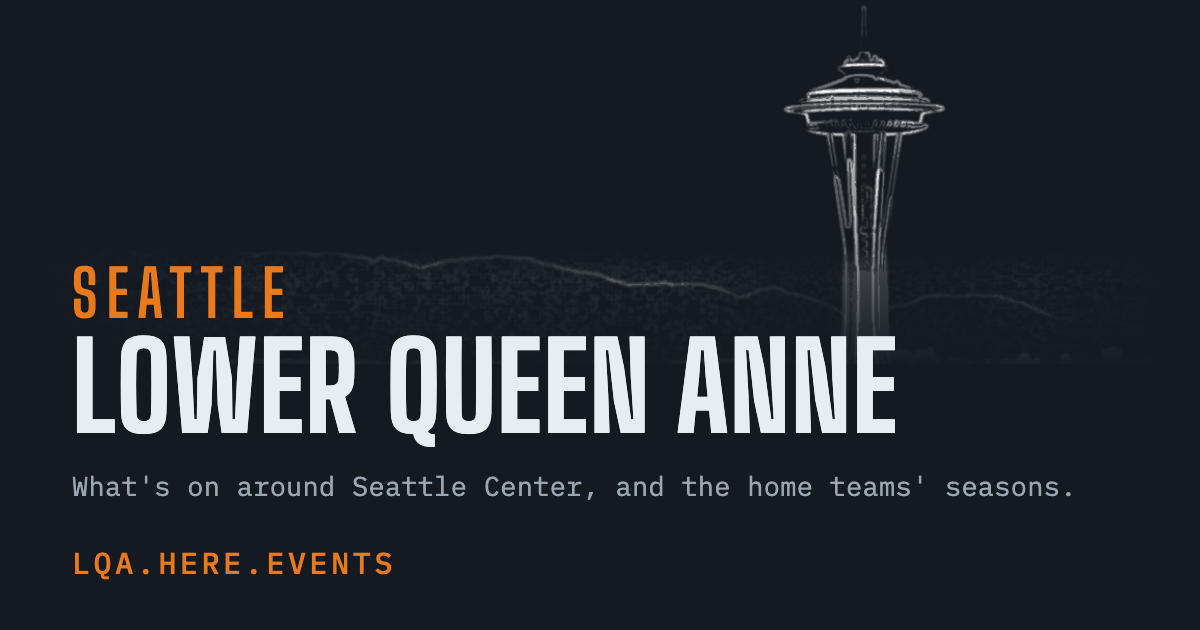
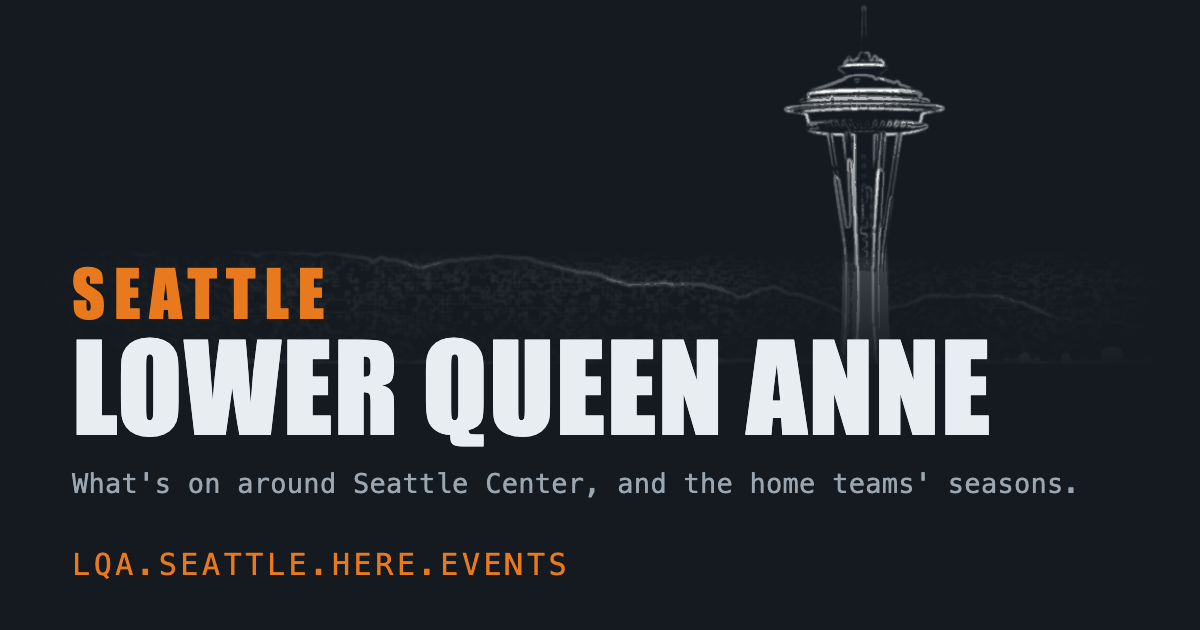
Move to lqa.seattle.here.events
A neighbourhood sits under its city (Steve, 2026-10-11). Every host string
and the share card carry the new address; the feed falls back to
lqa.here.events during the switch, which a redirect stub keeps alive.

Claude-Session: https://claude.ai/code/session_01CLHeUFyhoCK3f5Zpe5J5yR

Changed region(s): [[0.0617, 0.4222, 0.8325, 0.7238], [0.0617, 0.754, 0.8942, 0.7841], [0.0617, 0.8746, 0.4933, 0.9349]]

diff --git a/site/index.html b/site/index.html
@@ -30,14 +30,14 @@
 </script>
 <title>Lower Queen Anne Events — around Seattle Center</title>
 <meta name="description" content="What's on around Seattle Center — Climate Pledge Arena, McCaw Hall, and Seattle Center grounds. Calendar, iCal feed, and embeddable widget.">
-<!-- the site's own address (lqa.here.events since 2026-10-10) and what a shared link shows: name, line, and the share card (share.png, 1200×630, drawn from the masthead) -->
-<link rel="canonical" href="https://lqa.here.events/">
+<!-- the site's own address (lqa.seattle.here.events since 2026-10-10) and what a shared link shows: name, line, and the share card (share.png, 1200×630, drawn from the masthead) -->
+<link rel="canonical" href="https://lqa.seattle.here.events/">
 <meta property="og:type" content="website">
 <meta property="og:site_name" content="Lower Queen Anne Events">
 <meta property="og:title" content="Lower Queen Anne Events">
 <meta property="og:description" content="What's on around Seattle Center — the arena, McCaw Hall, the grounds and the neighborhood, with the home teams' seasons.">
-<meta property="og:url" content="https://lqa.here.events/">
-<meta property="og:image" content="https://lqa.here.events/share.png">
+<meta property="og:url" content="https://lqa.seattle.here.events/">
+<meta property="og:image" content="https://lqa.seattle.here.events/share.png">
 <meta property="og:image:width" content="1200">
 <meta property="og:image:height" content="630">
 <meta name="twitter:card" content="summary_large_image">
@@ -413,7 +413,7 @@
           <p>Drop these two lines into any page and the next events render in place.
             Style it with the <code>lqa-ev-</code> CSS classes.</p>
 <pre><code>&lt;div id="lqa-events"&gt;&lt;/div&gt;
-&lt;script src="https://lqa.here.events/embed.js" data-max="8" defer&gt;&lt;/script&gt;</code></pre>
+&lt;script src="https://lqa.seattle.here.events/embed.js" data-max="8" defer&gt;&lt;/script&gt;</code></pre>
         </div>
         <div>
           <h3>Data feeds</h3>

diff --git a/scripts/share-card.html b/scripts/share-card.html
@@ -1,4 +1,4 @@
-<!-- The share card (site/share.png, 1200×630): what a link to lqa.here.events shows in a message or a feed. Rebuild after a masthead or palette change:
+<!-- The share card (site/share.png, 1200×630): what a link to lqa.seattle.here.events shows in a message or a feed. Rebuild after a masthead or palette change:
      "/Applications/Google Chrome.app/Contents/MacOS/Google Chrome" --headless=new --disable-gpu --user-data-dir=/tmp/share-card-profile --window-size=1200,630 --hide-scrollbars --virtual-time-budget=8000 --screenshot=site/share.png file://$PWD/scripts/share-card.html
      (a scratch profile, never the real one). The drawing is the masthead's own masthead-lines.png, screen-blended; the fonts are the site's. 2026-10-10 -->
 <!DOCTYPE html><html><head><meta charset="utf-8">
@@ -18,5 +18,5 @@
 </style></head><body>
 <img class="lines" src="../site/masthead-lines.png" alt=""><div class="fadeL"></div><div class="fadeB"></div><div class="fadeR"></div>
 <div class="text"><p class="eyebrow">Seattle</p><h1>Lower Queen Anne</h1><p class="line">What's on around Seattle Center, and the home teams' seasons.</p></div>
-<div class="url">lqa.here.events</div>
+<div class="url">lqa.seattle.here.events</div>
 </body></html>

diff --git a/site/city.js b/site/city.js
@@ -415,8 +415,8 @@
   global.LQACity = {
     key: 'lqa',
     name: 'Lower Queen Anne',
-    site: 'https://lqa.here.events/',
-    userAgent: 'Mozilla/5.0 (compatible; lqa-events/1.0; +https://lqa.here.events/)',
+    site: 'https://lqa.seattle.here.events/',
+    userAgent: 'Mozilla/5.0 (compatible; lqa-events/1.0; +https://lqa.seattle.here.events/)',
     tz: 'America/Los_Angeles', tzName: 'Pacific', // the city's time zone: the ICS feed's TZID, the game clocks, the poster's footer
     // the calendar feed's header; the UID domain and PRODID never change
     // (changing them re-creates every event in subscribers' calendars)

diff --git a/site/embed.js b/site/embed.js
@@ -3,7 +3,7 @@
  *
  * Usage on any site:
  *   <div id="lqa-events"></div>
- *   <script src="https://lqa.here.events/embed.js" data-max="8" defer></script>
+ *   <script src="https://lqa.seattle.here.events/embed.js" data-max="8" defer></script>
  *
  * Options (data- attributes on the script tag):
  *   data-max     max events to show (default 8)

diff --git a/README.md b/README.md
@@ -3,7 +3,7 @@
 Event feed and calendar for Lower Queen Anne / the Seattle Center area:
 Climate Pledge Arena, McCaw Hall, and the Seattle Center grounds.
 
-Live at **https://lqa.here.events/** (its own domain since 2026-10-05; until then
+Live at **https://lqa.seattle.here.events/** (since 2026-10-11 — a neighbourhood under its city; lqa.here.events from 2026-10-05, now a redirect; until then
 `fosdal.net/lqa-events/`, which GitHub Pages cannot redirect) — a GitHub Actions
 cron refreshes the data once a day at noon Pacific and deploys straight to GitHub Pages (no
 data commits).
@@ -24,7 +24,7 @@ Embed on any site:
 
 ```html
 <div id="lqa-events"></div>
-<script src="https://lqa.here.events/embed.js" data-max="8" defer></script>
+<script src="https://lqa.seattle.here.events/embed.js" data-max="8" defer></script>
 ```
 
 Options via data-attributes: `data-max`, `data-venue`, `data-target`,
